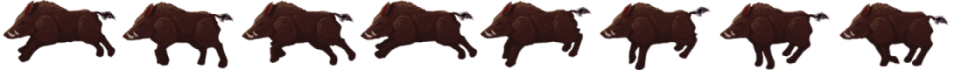
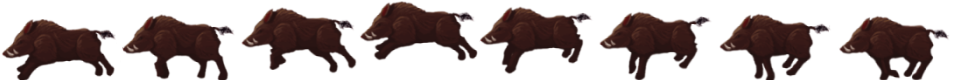
added animation speed

diff --git a/src/gameApp/gameObjects/Monster.ts b/src/gameApp/gameObjects/Monster.ts
@@ -24,7 +24,9 @@ export class Monster{
 	healthMax: number; //максимум хп
 	health: number;
 	damage: number; //урон (в секунду)
-	speed: number; //скорость (пикселей в секунду)
+	speed: number; //скорость передвижения (пикселей в секунду)
+	speedAnimation: number; //скорость анимации
+	speedAnimationAttack: number; //скорость анимации атаки
 
 	x: number;
 	y: number;
@@ -43,10 +45,12 @@ export class Monster{
 		name: string, 
 		image: HTMLImageElement, 
 		frames: number, 
-		width: number, 
+		width: number,
+		speedAnimation: number,
 		imageAttack: HTMLImageElement, 
 		attackFrames: number, 
-		attackWidth: number, 
+		attackWidth: number,
+		speedAnimationAttack: number,
 		reduceHover: number, 
 		healthMax: number, 
 		damage: number, 
@@ -55,18 +59,18 @@ export class Monster{
 		this.name = name;
 
 		this.image = image; //содержит несколько изображений для анимации
-		this.attackImage = imageAttack;  //содержит несколько изображений для анимации
-
 		this.frames = frames; //сколько изображений в image?
-		this.attackFrames = attackFrames; //сколько изображений атаки в attackImage?
-
 		this.width = width; //ширина image
 		this.widthFrame = image.width / frames;
 		this.height = this.width / this.widthFrame * this.image.height;
+		this.speedAnimation = speedAnimation;
 
+		this.attackImage = imageAttack;  //содержит несколько изображений для анимации
+		this.attackFrames = attackFrames; //сколько изображений атаки в attackImage?
 		this.attackWidth = attackWidth; //ширина attack image
 		this.attackWidthFrame = imageAttack.width / attackFrames;
 		this.attackHeight = this.attackWidth / this.attackWidthFrame * this.attackImage.height;
+		this.speedAnimationAttack = speedAnimationAttack;
 
 		this.reduceHover = reduceHover; //на сколько пикселей уменьшить зону наведения?
 
@@ -155,7 +159,7 @@ export class Monster{
 
 		if(this.isAttack){
 			//атака
-			let currentFrame = isGameOver ? 0 : Math.floor(((Date.now() - this.createdTime) % 1000) / (1000 / this.attackFrames)) % this.attackFrames;
+			let currentFrame = isGameOver ? 0 : Math.floor(((Date.now() - this.createdTime) % 1000 * this.speedAnimationAttack) / (1000 / this.attackFrames)) % this.attackFrames;
 			Draw.ctx.drawImage(this.attackImage, 
 				this.attackWidthFrame * currentFrame, //crop from x
 				0, //crop from y
@@ -168,7 +172,7 @@ export class Monster{
 		}
 		else{
 			//передвижение
-			let currentFrame = isGameOver ? 0 : Math.floor(((Date.now() - this.createdTime) % 1000) / (1000 / this.frames)) % this.frames;
+			let currentFrame = isGameOver ? 0 : Math.floor(((Date.now() - this.createdTime) % 1000 * this.speedAnimation) / (1000 / this.frames)) % this.frames;
 			Draw.ctx.drawImage(this.image, 
 				this.widthFrame * currentFrame, //crop from x
 				0, //crop from y

diff --git a/src/gameApp/monsters/Zombie.ts b/src/gameApp/monsters/Zombie.ts
@@ -28,9 +28,11 @@ export class Zombie extends Monster{
 			selectedImage,
 			12,
 			selectedImage.width / 12 * scaleSize,
+			1,
 			selectedAttackImage,
 			4,
 			selectedAttackImage.width / 4 * scaleSize,
+			1,
 			5,
 			3 * scaleSize,
 			1,

diff --git a/src/gameApp/monsters/Boar.ts b/src/gameApp/monsters/Boar.ts
@@ -22,9 +22,11 @@ export class Boar extends Monster{
 			selectedImage,
 			8,
 			selectedImage.width / 8 * scaleSize,
+			2,
 			selectedAttackImage,
 			8,
 			selectedAttackImage.width / 8 * scaleSize,
+			1,
 			5,
 			4 * scaleSize,
 			3,
